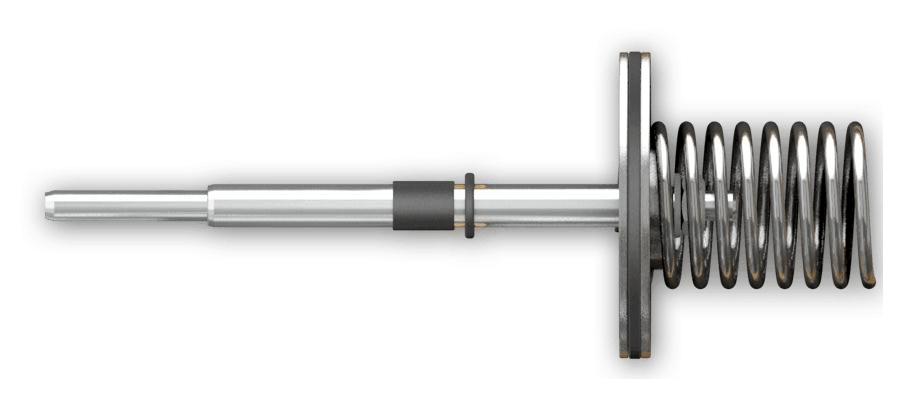
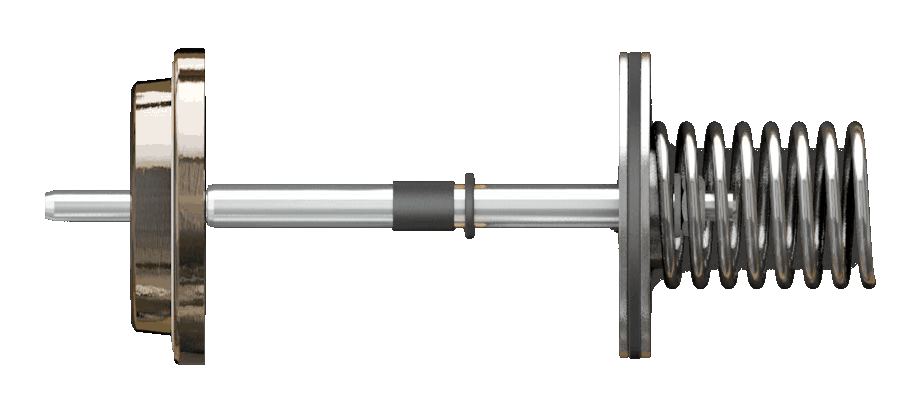
Add piston to airvalve.

Changed region(s): [[0.0311, 0.088, 0.9945, 0.9095]]

diff --git a/src/js/main.js b/src/js/main.js
@@ -95,14 +95,16 @@ function lastState(motorRunStatus, onLoadStatus) {
 
 function onLoad(status) {
     if (status) {
-        //openAirValve();
+        openAirValve();
         //openSepSpring();
         //Preview_airarrows();
+        startAirArrows();
         startVioletArrows();
     } else {
-        //closeAirValve();
+        closeAirValve();
         //closeSepSpring();
         //StopAnimate_airarrows();
+        stopAirArrows();
         stopVioletArrows();
     }
 }
@@ -193,6 +195,13 @@ function stopSmallGreenPipe() {
     jQuery('[class="smallgreenpipe_dis"]').css('visibility', 'visible');
 }
 
+function startAirArrows() {
+    jQuery('[class="airarrows"]').css('visibility', 'visible');
+}
+function stopAirArrows() {
+    jQuery('[class="airarrows"]').css('visibility', 'hidden');
+}
+
 var isSolenoidValveOpened = false;
 function openSolenoidValve() {
     if (!isSolenoidValveOpened)
@@ -203,6 +212,18 @@ function closeSolenoidValve() {
     if (isSolenoidValveOpened)
         jQuery('[id="solenoidvalve"]').attr('src', 'img/gif/solenoidvalve_rev.gif');
     isSolenoidValveOpened = false;
+}
+
+var isAirValveOpened = false;
+function openAirValve() {
+    if (!isAirValveOpened)
+        jQuery('[id="solenoidvalve"]').attr('src', 'img/gif/solenoidvalve.gif');
+    isAirValveOpened = true;
+}
+function closeAirValve() {
+    if (isAirValveOpened)
+        jQuery('[id="solenoidvalve"]').attr('src', 'img/gif/solenoidvalve_rev.gif');
+    isAirValveOpened = false;
 }
 
 var isSolenoidValveBlowDownOpened = false;
